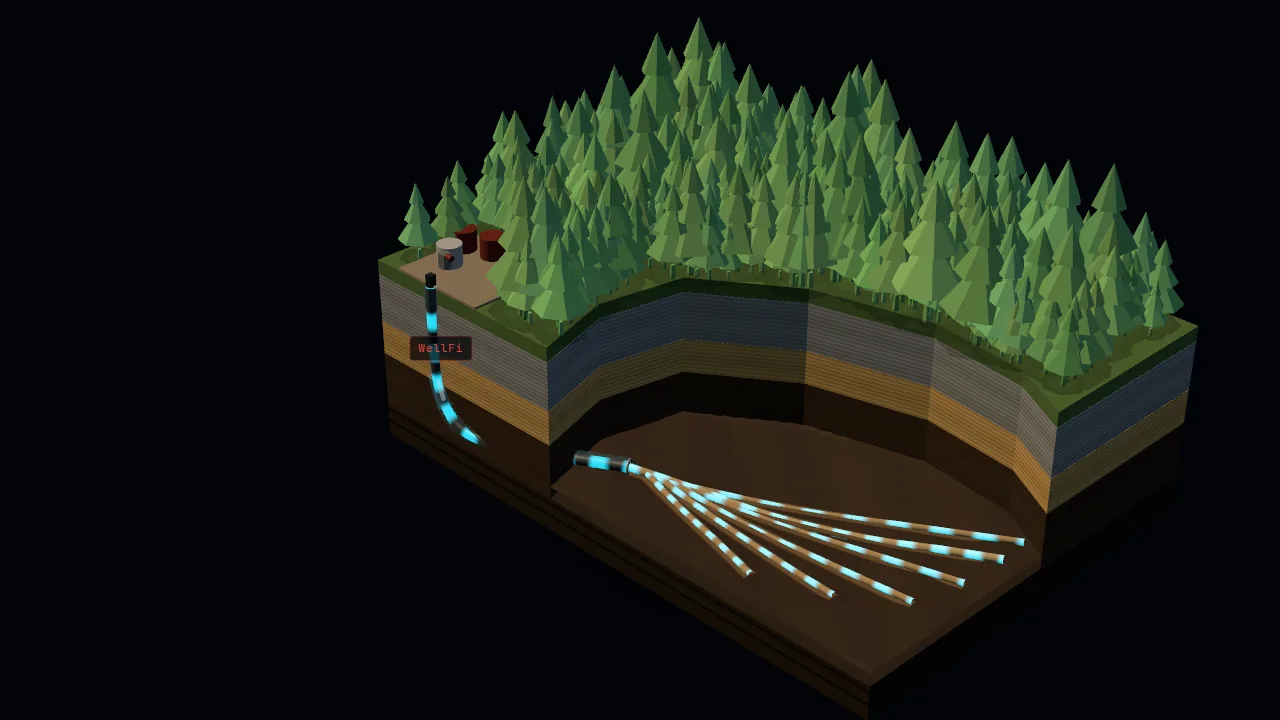
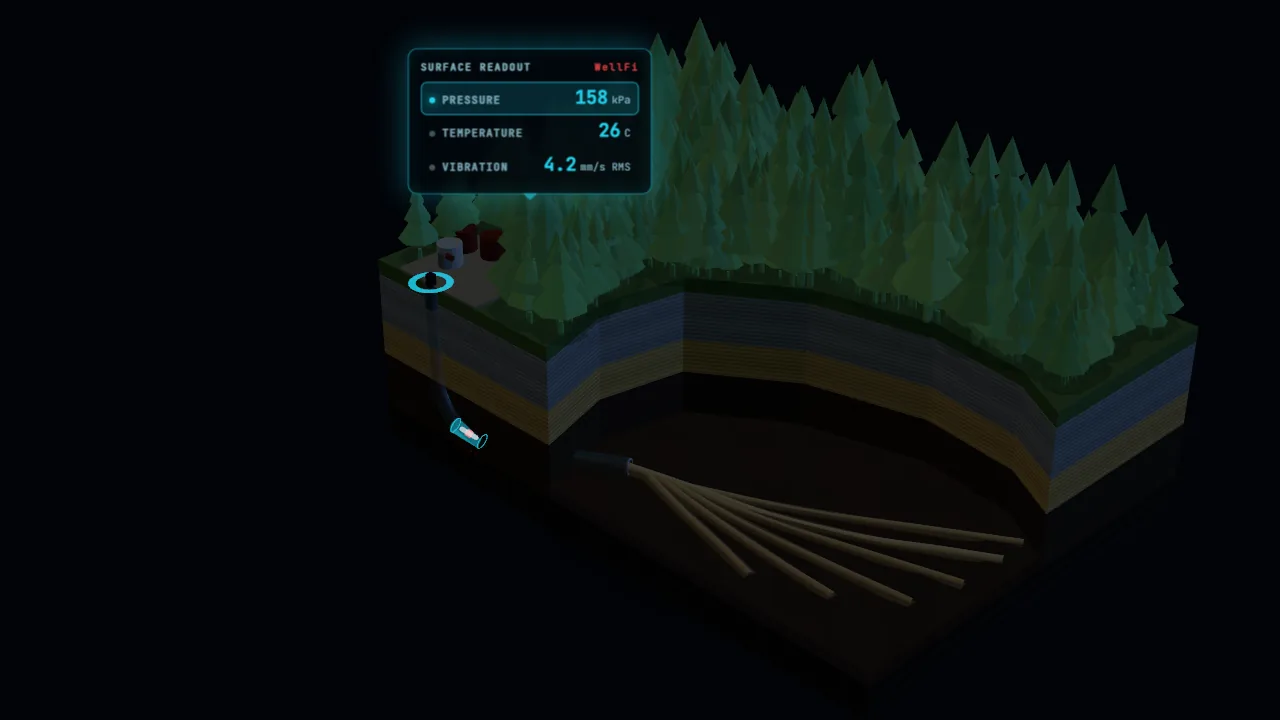
fix(hero): use lower intermediate WellFi model

Changed region(s): [[0.2812, 0.0306, 0.9375, 0.9472]]

diff --git a/index.html b/index.html
@@ -31,7 +31,7 @@
   <link rel="preconnect" href="https://fonts.gstatic.com" crossorigin>
   <link href="https://fonts.googleapis.com/css2?family=Archivo:wght@500;600;700;800&amp;family=IBM+Plex+Mono:wght@400;500;600&amp;family=IBM+Plex+Sans:wght@400;500;600&amp;family=Space+Grotesk:wght@400;500;600&amp;display=swap" rel="stylesheet">
   <link rel="stylesheet" href="https://cdn.jsdelivr.net/npm/@phosphor-icons/web@2.1.2/src/regular/style.css">
-  <link rel="preload" as="image" href="assets/wellfi-island-live.webp?v=20260723-1" fetchpriority="high">
+  <link rel="preload" as="image" href="assets/wellfi-island-live.webp?v=20260723-2" fetchpriority="high">
   <link rel="stylesheet" href="styles.css?v=20260720-2">
 
   <script type="application/ld+json">
@@ -116,8 +116,8 @@
 
         <div class="hero-visual" aria-label="WellFi wireless telemetry cutaway">
           <div class="hero-scene">
-            <video class="hero-animation" muted loop playsinline preload="none" poster="assets/wellfi-island-live.webp?v=20260723-1" data-hero-animation role="img" aria-label="Animated cutaway showing WellFi transmitting pressure, temperature, and vibration data from the middle of the intermediate casing to a surface readout">
-              <source src="assets/wellfi-island-hero-12s.mp4?v=20260723-1" type="video/mp4">
+            <video class="hero-animation" muted loop playsinline preload="none" poster="assets/wellfi-island-live.webp?v=20260723-2" data-hero-animation role="img" aria-label="Animated cutaway showing WellFi transmitting pressure, temperature, and vibration data from the lower intermediate casing to a surface readout">
+              <source src="assets/wellfi-island-hero-12s.mp4?v=20260723-2" type="video/mp4">
               <img src="assets/wellfi-island-live.webp" alt="Cutaway showing a WellFi telemetry signal travelling from downhole to surface" width="1920" height="1080">
             </video>
           </div>
@@ -241,6 +241,6 @@
     <p class="chatfi-disclosure">ChatFi is an AI assistant. Conversations may be reviewed to improve the service. Confirm anything that matters directly with Yotin.</p>
   </section>
 
-  <script defer src="main.js?v=20260723-1"></script>
+  <script defer src="main.js?v=20260723-2"></script>
 </body>
 </html>

diff --git a/design-qa.md b/design-qa.md
@@ -115,5 +115,72 @@ final result: passed
 - Mobile menu: opens with `aria-expanded=true`, exposes all navigation actions, and closes with `aria-expanded=false`.
 - ChatFi: dialog opens, page scrolling locks, close control works, and the closed state is restored.
 - Fresh mobile browser console errors: none.
+- Follow-up review: the user identified the `0.34` placement as too high. This pass is superseded by the restored lower-model QA below.
+
+final result: blocked
+
+---
+
+# Design QA - restored lower intermediate-casing model
+
+## Outcome
+
+- No actionable P0, P1, or P2 differences remain after restoring the historical lower model.
+- The canonical WellFi scene now uses casing parameter `0.50`: the lower cased run below the pump, still inside the intermediate casing.
+- Parameter `0.55` was deliberately excluded because the historical source identifies it as the casing-shoe region.
+- The poster-first, idle-start, 24 fps performance treatment remains in place.
+
+## Comparison target
+
+- Current MPS source capture at the higher `0.34` placement: `C:\Users\kyle\.codex\visualizations\2026\07\20\019f8174-46b6-7ba0-9099-0f377f3cb2f6\mpsgroup-live-lower-reference-20260723.jpg`
+- Historical source-state capture at the requested lower `0.50` placement: `C:\Users\kyle\.codex\visualizations\2026\07\20\019f8174-46b6-7ba0-9099-0f377f3cb2f6\marketing-param050-before.jpg`
+- Authoritative regenerated lower-model poster: `C:\Users\kyle\.codex\visualizations\2026\07\20\019f8174-46b6-7ba0-9099-0f377f3cb2f6\wellfi-lower-model-export\wellfi-island-hero-1280x720-poster.png`
+- Browser-rendered desktop implementation: `C:\Users\kyle\.codex\visualizations\2026\07\20\019f8174-46b6-7ba0-9099-0f377f3cb2f6\yotin-lower-model-local-desktop.png`
+- Browser-rendered desktop playing state: `C:\Users\kyle\.codex\visualizations\2026\07\20\019f8174-46b6-7ba0-9099-0f377f3cb2f6\yotin-lower-model-local-playing-2.png`
+- Browser-rendered mobile implementation: `C:\Users\kyle\.codex\visualizations\2026\07\20\019f8174-46b6-7ba0-9099-0f377f3cb2f6\yotin-lower-model-local-mobile.png`
+- Browser-rendered mobile menu: `C:\Users\kyle\.codex\visualizations\2026\07\20\019f8174-46b6-7ba0-9099-0f377f3cb2f6\yotin-lower-model-local-mobile-menu.png`
+- Full three-state comparison: `C:\Users\kyle\.codex\visualizations\2026\07\20\019f8174-46b6-7ba0-9099-0f377f3cb2f6\wellfi-lower-model-qa-comparison.png`
+- Focused tool-and-casing comparison: `C:\Users\kyle\.codex\visualizations\2026\07\20\019f8174-46b6-7ba0-9099-0f377f3cb2f6\wellfi-lower-model-qa-focus.png`
+- Source and authoritative poster pixels: 1280 x 720 at density 1.
+- Desktop CSS viewport: 1602 x 745 at device scale factor 1; screenshot pixels: 1587 x 738 because the browser capture excludes scrollbars.
+- Mobile CSS viewport and screenshot: 390 x 844 at device scale factor 1.
+- Normalization: the three full-view panels were each normalized to 1280 x 720. The three focused regions were normalized to 430 x 360 and combined at 1290 x 360.
+- State: landing-page hero with the lower model visible; navigation closed except in the named menu capture.
+
+## Required fidelity surfaces
+
+- Fonts and typography: existing Archivo, Space Grotesk, and IBM Plex Mono families, weights, hierarchy, line height, letter spacing, wrapping, and optical balance are unchanged and readable at desktop and mobile sizes.
+- Spacing and layout rhythm: the Yotin canopy, left content column, proof chips, and CTA geometry are unchanged. The lower WellFi remains clear of the headline and reads inside the cased J-build.
+- Colors and tokens: Yotin orange, telemetry cyan, black field, opacity treatment, and text contrast remain consistent with the approved canopy hero.
+- Image quality and asset fidelity: the real canonical R3F scene is used. The replacement H.264 MP4 is 1280 x 720 at 24 fps and 569,838 bytes; the WebP poster is 21,876 bytes. No CSS, SVG, or placeholder approximation is used.
+- Copy and content: visible marketing copy is unchanged. The animation accessibility label now states that the data originates from the lower intermediate casing.
+- Responsiveness: no horizontal overflow at 1602 x 745 or 390 x 844. The lower tool remains visible on mobile without colliding with the text or action stack.
+- Accessibility and behavior: poster content is visible before playback, the mobile menu exposes its expanded state, ChatFi opens as a labeled dialog, page scroll locks while open, and closing restores the page.
+- Icons and surfaces: existing Yotin logo art, control borders, radii, and CTA surfaces remain unchanged and aligned.
+
+## Findings and comparison history
+
+1. [P1] The superseded `0.34` pass moved WellFi too high in the intermediate casing compared with the remembered lower model.
+2. Fix: restored the exact historical `0.50` casing parameter and updated its regression test.
+3. Post-fix evidence: the authoritative poster and focused comparison show the tool lower in the J-build while still above the casing-shoe region.
+4. [P2] The Yotin hero still referenced the previous higher-model MP4, poster, cache key, and middle-casing accessibility wording.
+5. Fix: regenerated the canonical scene, replaced both Yotin assets, advanced the cache key, and updated the accessibility wording.
+6. Post-fix evidence: desktop and mobile browser captures show the lower tool; playback reaches ready state 4 with no console errors.
+7. Final comparison: no actionable P0, P1, or P2 finding remains.
+
+## Full-view and focused evidence
+
+- Full view: the normalized three-panel comparison makes the downward move from `0.34` to `0.50` visible and confirms the Yotin crop preserves the requested placement.
+- Focused region: equal-size 430 x 360 crops show the prior higher tool, the authoritative lower source, and the browser implementation at a readable scale against the casing layers and J-build.
+- The Yotin crop intentionally differs from the MPS full-page composition because it supports the existing Yotin headline and CTA column; product location and casing relationship match the source scene.
+
+## Responsive and interaction evidence
+
+- Desktop: poster-first hero visible, one H1, no horizontal overflow, no GSAP scripts, no autoplay attribute, and correct lower-model asset URLs.
+- Playing state: video ready state 4, full hero opacity, identity transform, and no console errors.
+- Mobile: 390 x 844, no horizontal overflow, lower model visible, copy readable, and both primary actions usable.
+- Mobile menu: opens with `aria-expanded=true`, exposes all navigation actions, closes with `aria-expanded=false`, and restores the hidden state.
+- ChatFi: opens from the unique hero action, exposes the dialog, locks page scrolling, closes, and restores body scrolling.
+- Fresh desktop and mobile browser console errors: none.
 
 final result: passed